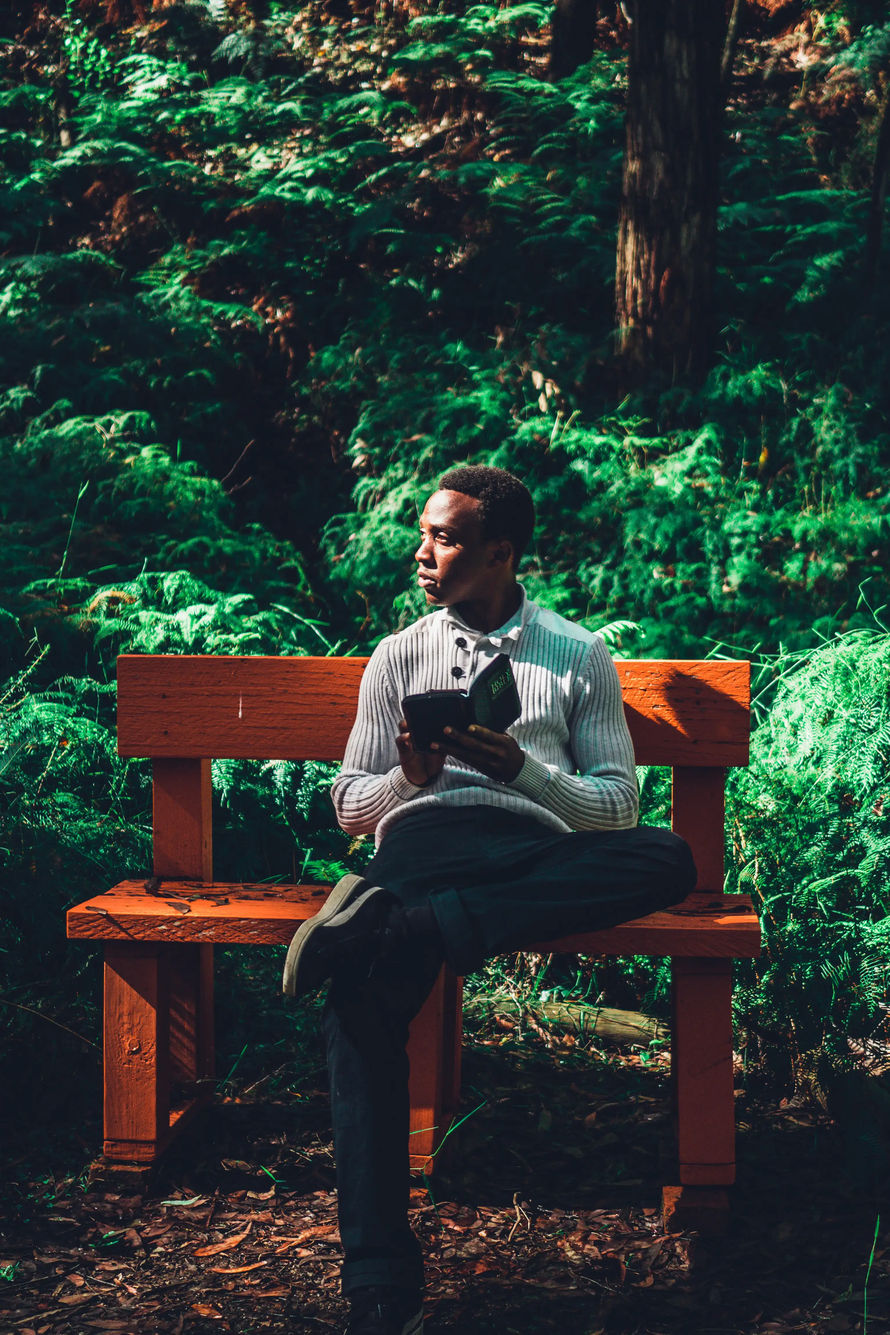
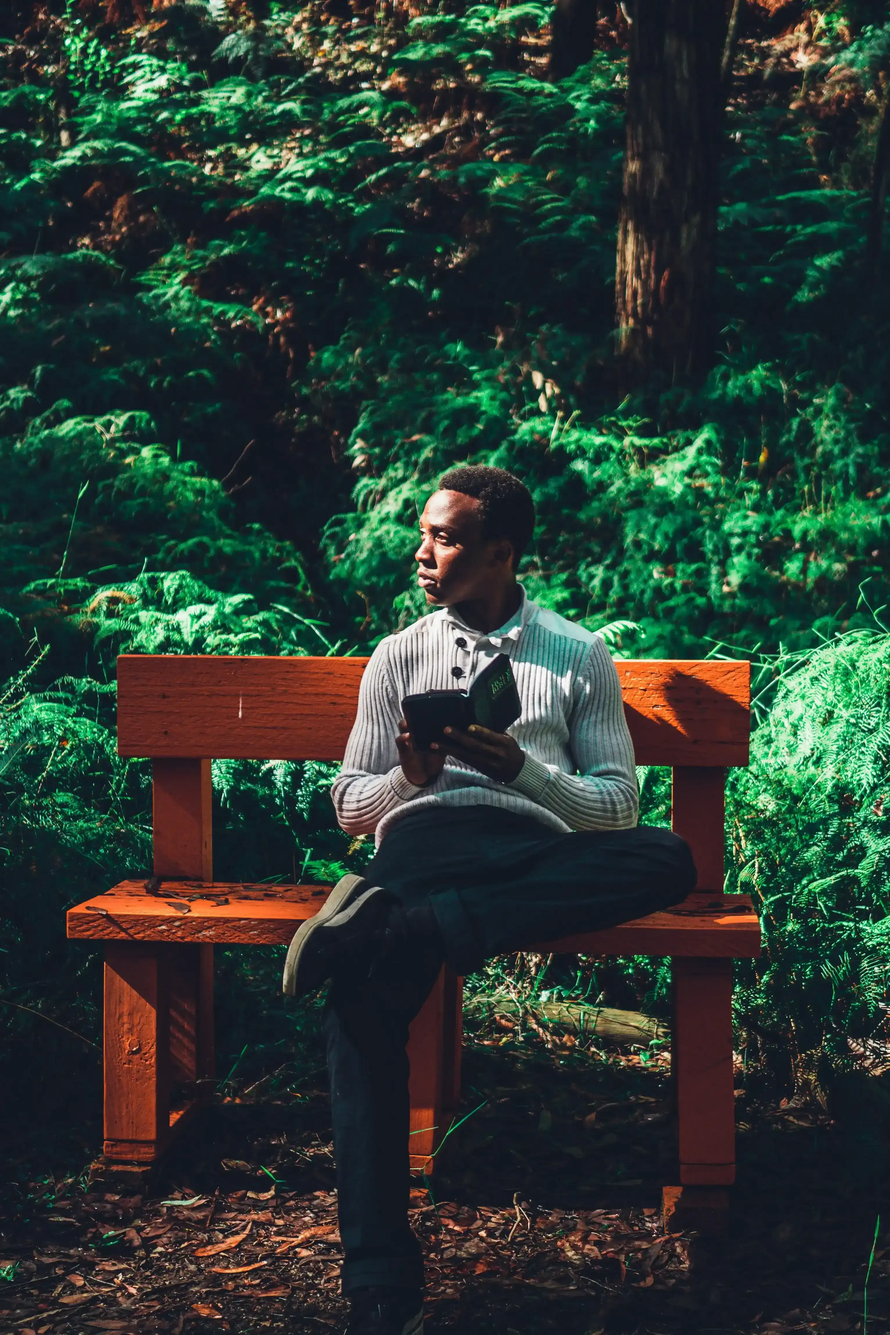
Initial bug fix. Compressed image. Added Lazy loading

diff --git a/Portfolio/src/App.jsx b/Portfolio/src/App.jsx
@@ -1,4 +1,4 @@
-import { useState, useEffect, Suspense } from "react";
+import { useState, useEffect, Suspense, lazy } from "react";
 import { Element } from "react-scroll";
 import ReactLenis from "lenis/react";
 import { Helmet } from "react-helmet-async";
@@ -21,20 +21,18 @@ import "./Styles/quote.scss";
 
 import LoadingScreen from "./components/LoadingScreen";
 import Navbar from "./components/Navbar";
-import Home from "./pages/Home";
-import About from "./pages/About";
-import Footer from "./components/Footer";
-import BentoGrid from "./components/BentoGrid";
-import FullPageCalloutBanner from "./components/ParallaxBanner";
+const Home = lazy(() => import("./pages/Home"));
+const About = lazy(() => import("./pages/About"));
+const Footer = lazy(() => import("./components/Footer"));
+const BentoGrid = lazy(() => import("./components/BentoGrid"));
+const FullPageCalloutBanner = lazy(() => import("./components/ParallaxBanner"));
 // LANDING PAGE SLIDE SHOW IMAGES
-const image1 = "/img/profile.webp";
-const image2 = "/img/wilson-prom2.webp";
-const image3 = "/img/garden.webp";
-const image4 = "/img/photograph.webp";
+const landingImage1 = "/img/profile.webp";
+const landingImage2 = "/img/forest-xplore.jpg";
 
 let images = [
   {
-    url: image1,
+    url: landingImage1,
     alt: "Image of Bruce sitting on an orange chair in a green forest",
   },
 ];
@@ -89,8 +87,8 @@ function App() {
           content="Software Developer from West Queensland & Brisbane"
         />
       </Helmet> */}
-      <Suspense fallback={<LoadingScreen />}>
-        <ReactLenis root>
+      <ReactLenis root>
+        <Suspense fallback={<LoadingScreen />}>
           <Navbar />
 
           <Element name="home">
@@ -109,8 +107,8 @@ function App() {
           <Element name="contact">
             <Footer />
           </Element>
-        </ReactLenis>
-      </Suspense>
+        </Suspense>
+      </ReactLenis>
     </>
   );
 }

diff --git a/Portfolio/src/Styles/about.scss b/Portfolio/src/Styles/about.scss
@@ -4,7 +4,6 @@
     position: relative;
     padding: 2rem;
     .about-landing-section{
-        // height: 30vh;
         h2{
             font-size: 3rem;
             font-family: ClashDisplay-Bold;
@@ -36,6 +35,13 @@
         }
         .left-content-sticky{
             flex: 1;
+            @media screen and (min-width: 60em) {
+                position: sticky;
+                position: -webkit-sticky;
+                top: 0;
+                left: 0;
+            }
+
             .parallax-wrapper{
                 height: 50rem;
                 margin-top: 2rem;
@@ -57,11 +63,6 @@
                 color: $secondary-purple;
                 padding: 0.2rem;
                 border-radius: 0.2rem;
-            }
-            @media screen and (min-width: 60em) {
-                position: sticky;
-                top: 3rem;
-                left: 0;
             }
         }
 

diff --git a/Portfolio/src/pages/Home.jsx b/Portfolio/src/pages/Home.jsx
@@ -1,6 +1,10 @@
 import React, { useState, useEffect } from "react";
 import { Link } from "react-scroll";
 
+import Instagram from "../assets/instagram.svg";
+import Linkedin from "../assets/linkedin.svg";
+import Twitter from "../assets/twitter.svg";
+
 function Home(images) {
   const [imageIndex, setImageIndex] = useState(0);
   useEffect(() => {
@@ -18,7 +22,7 @@ function Home(images) {
   return (
     <div className="landing-container image-container">
       <div className="image-container">
-        <img src={images.images[0].url} />
+        <img src={images.images[0].url} style={{ objectPosition: top }} />
       </div>
       <div className="landing-content-container">
         <div className="text-container">

diff --git a/Portfolio/src/Styles/navbar.scss b/Portfolio/src/Styles/navbar.scss
@@ -1,13 +1,18 @@
 @import 'globals.scss';
 .navbar{
-    width: 100vw;
+    position: fixed;
+    width: 100%;
     // padding: 1.5rem 3rem;
     display: flex;
     justify-content: center;
-    position: sticky;
-    top: 90%;
+    bottom: 5%;
     left: 0;
     z-index: 99999999;
+    @media screen and (min-width: 40em) {
+        bottom: auto;
+        top: 5%;
+    }
+
     .navbar-logo{
         display: none;
         img{
@@ -47,10 +52,6 @@
                 }
             }
         }
-    }
-
-    @media screen and (min-width: 40em) {
-        top: 5%;
     }
 }
 

diff --git a/Portfolio/src/Styles/landing.scss b/Portfolio/src/Styles/landing.scss
@@ -4,7 +4,7 @@
 
 .landing-container {
     height: 100vh;
-    margin: -0.5rem 2rem 2rem 2rem;
+    margin: 2rem;
     position: relative;
     
     .image-container {
@@ -13,6 +13,7 @@
             width: 100%;
             height: 100vh;
             object-fit: cover;
+            object-position: center;
             border-radius: 1rem;
         }
     }
